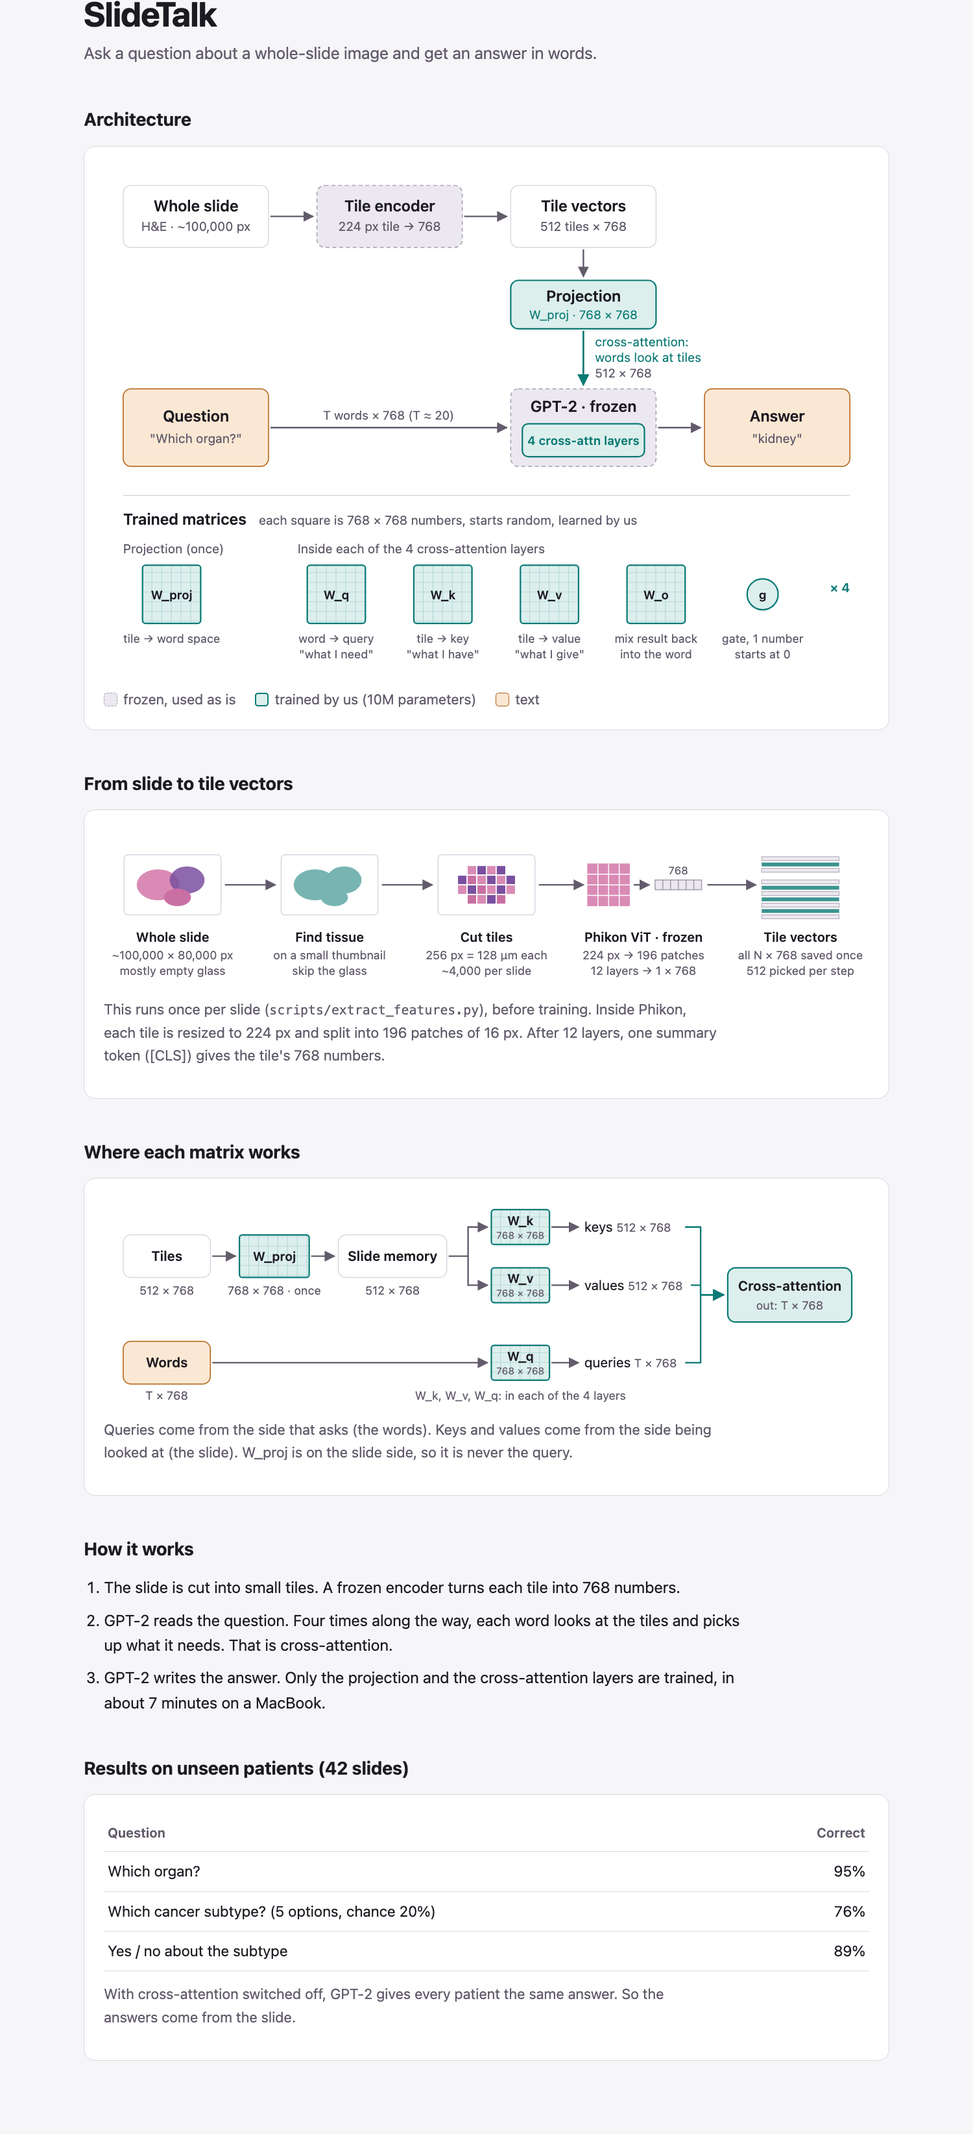
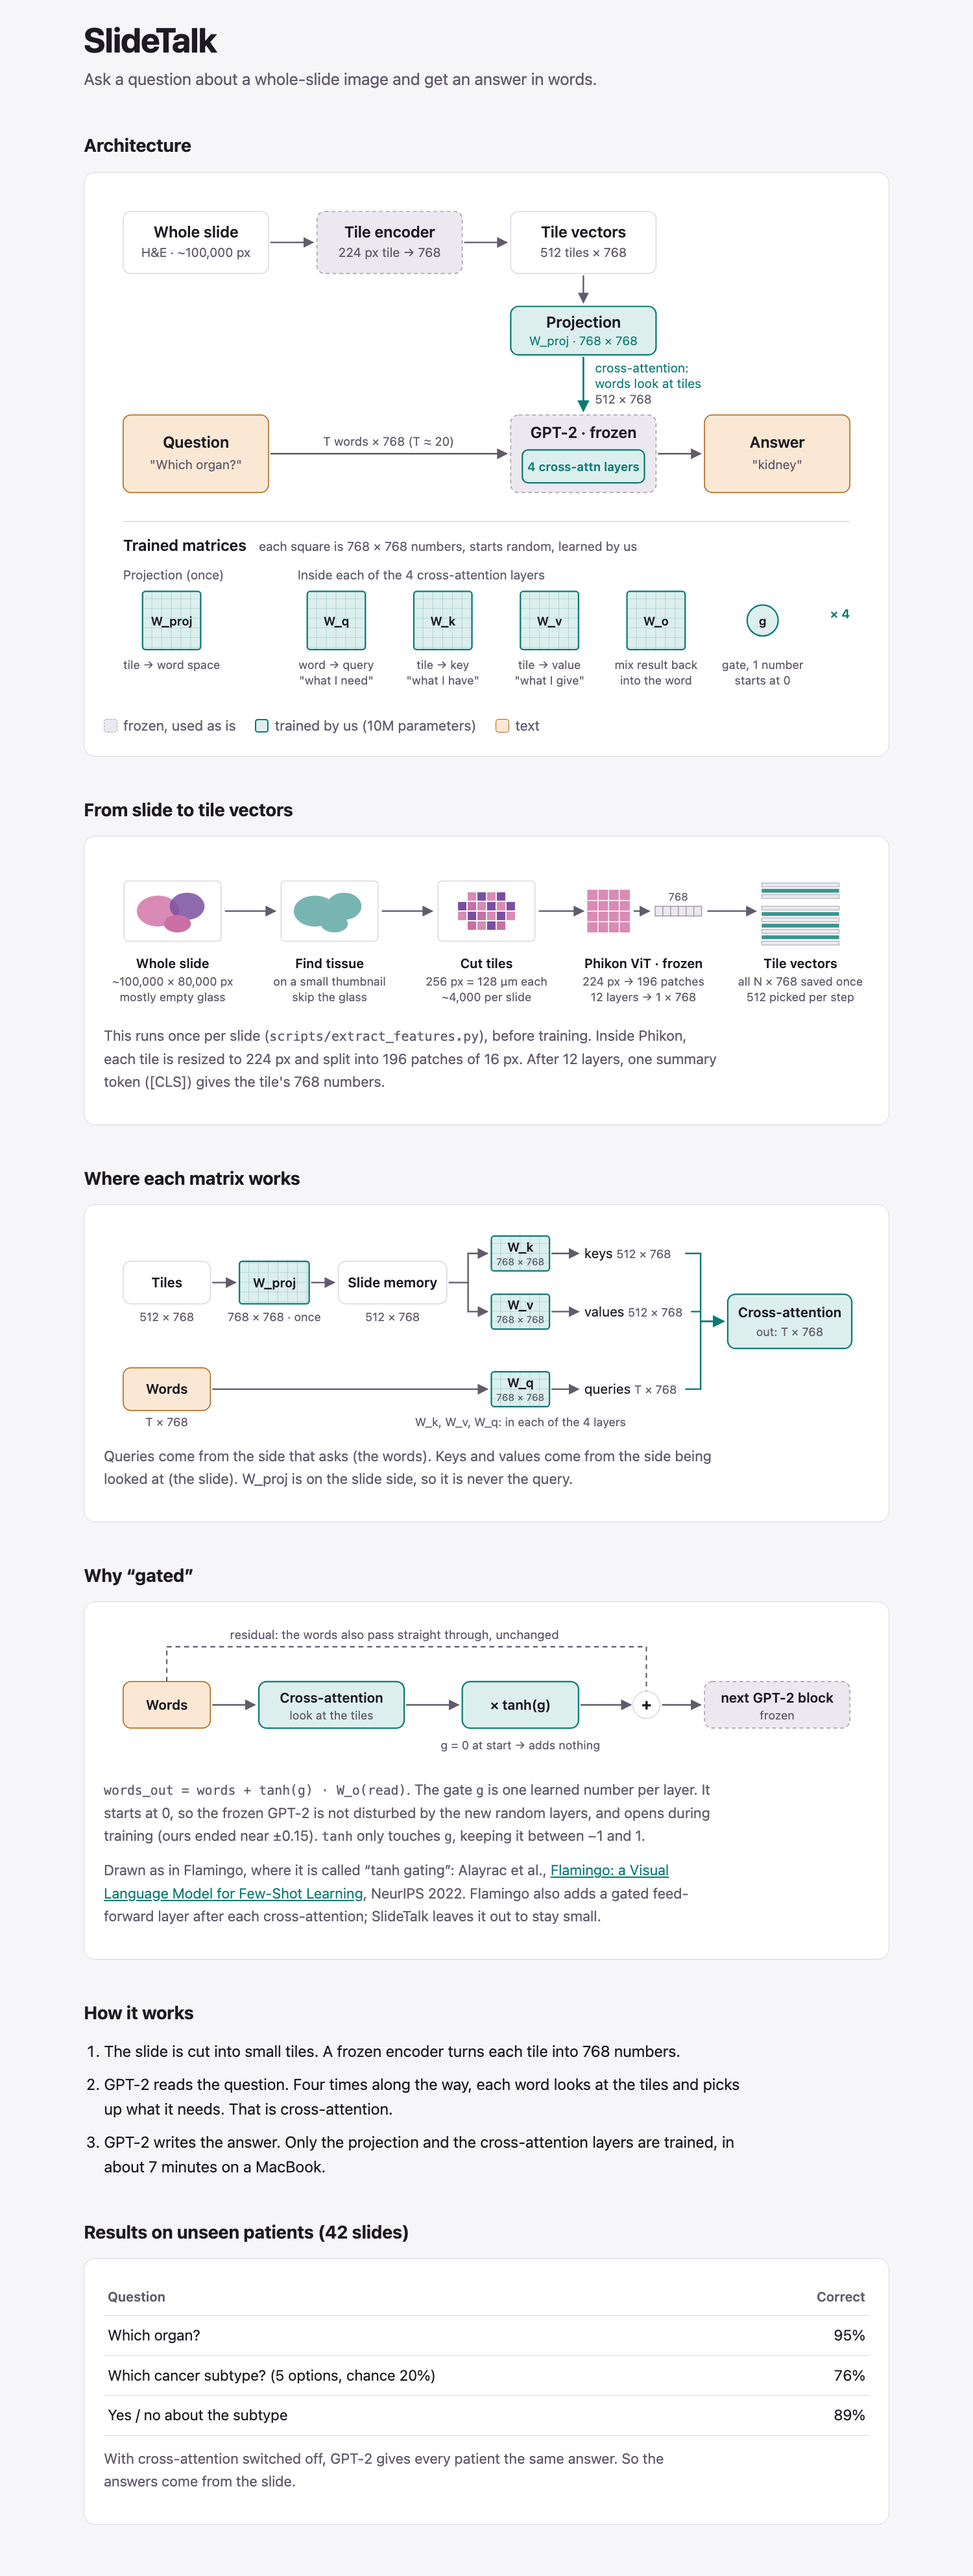
Explain tanh gating with the Flamingo reference in the README and diagram

diff --git a/README.md b/README.md
@@ -8,6 +8,12 @@ prototype of the idea behind slide-language models such as Prov-GigaPath and Fla
 
 ![SlideTalk architecture](docs/slidetalk.png)
 
+**Why "gated".** Each cross-attention layer adds what it read from the slide back to the words as
+`words + tanh(g) · W_o(read)`, where `g` is one learned number per layer that starts at 0. So at the start
+the new, randomly initialised layers add nothing and the frozen GPT-2 works exactly as released; the gates
+open during training. This is the "tanh gating" of Flamingo
+([Alayrac et al., NeurIPS 2022](https://arxiv.org/abs/2204.14198)), without its extra gated feed-forward layer.
+
 ## Results
 
 42 slides from patients never seen in training (5 TCGA subtypes: lung adenocarcinoma, lung squamous,
